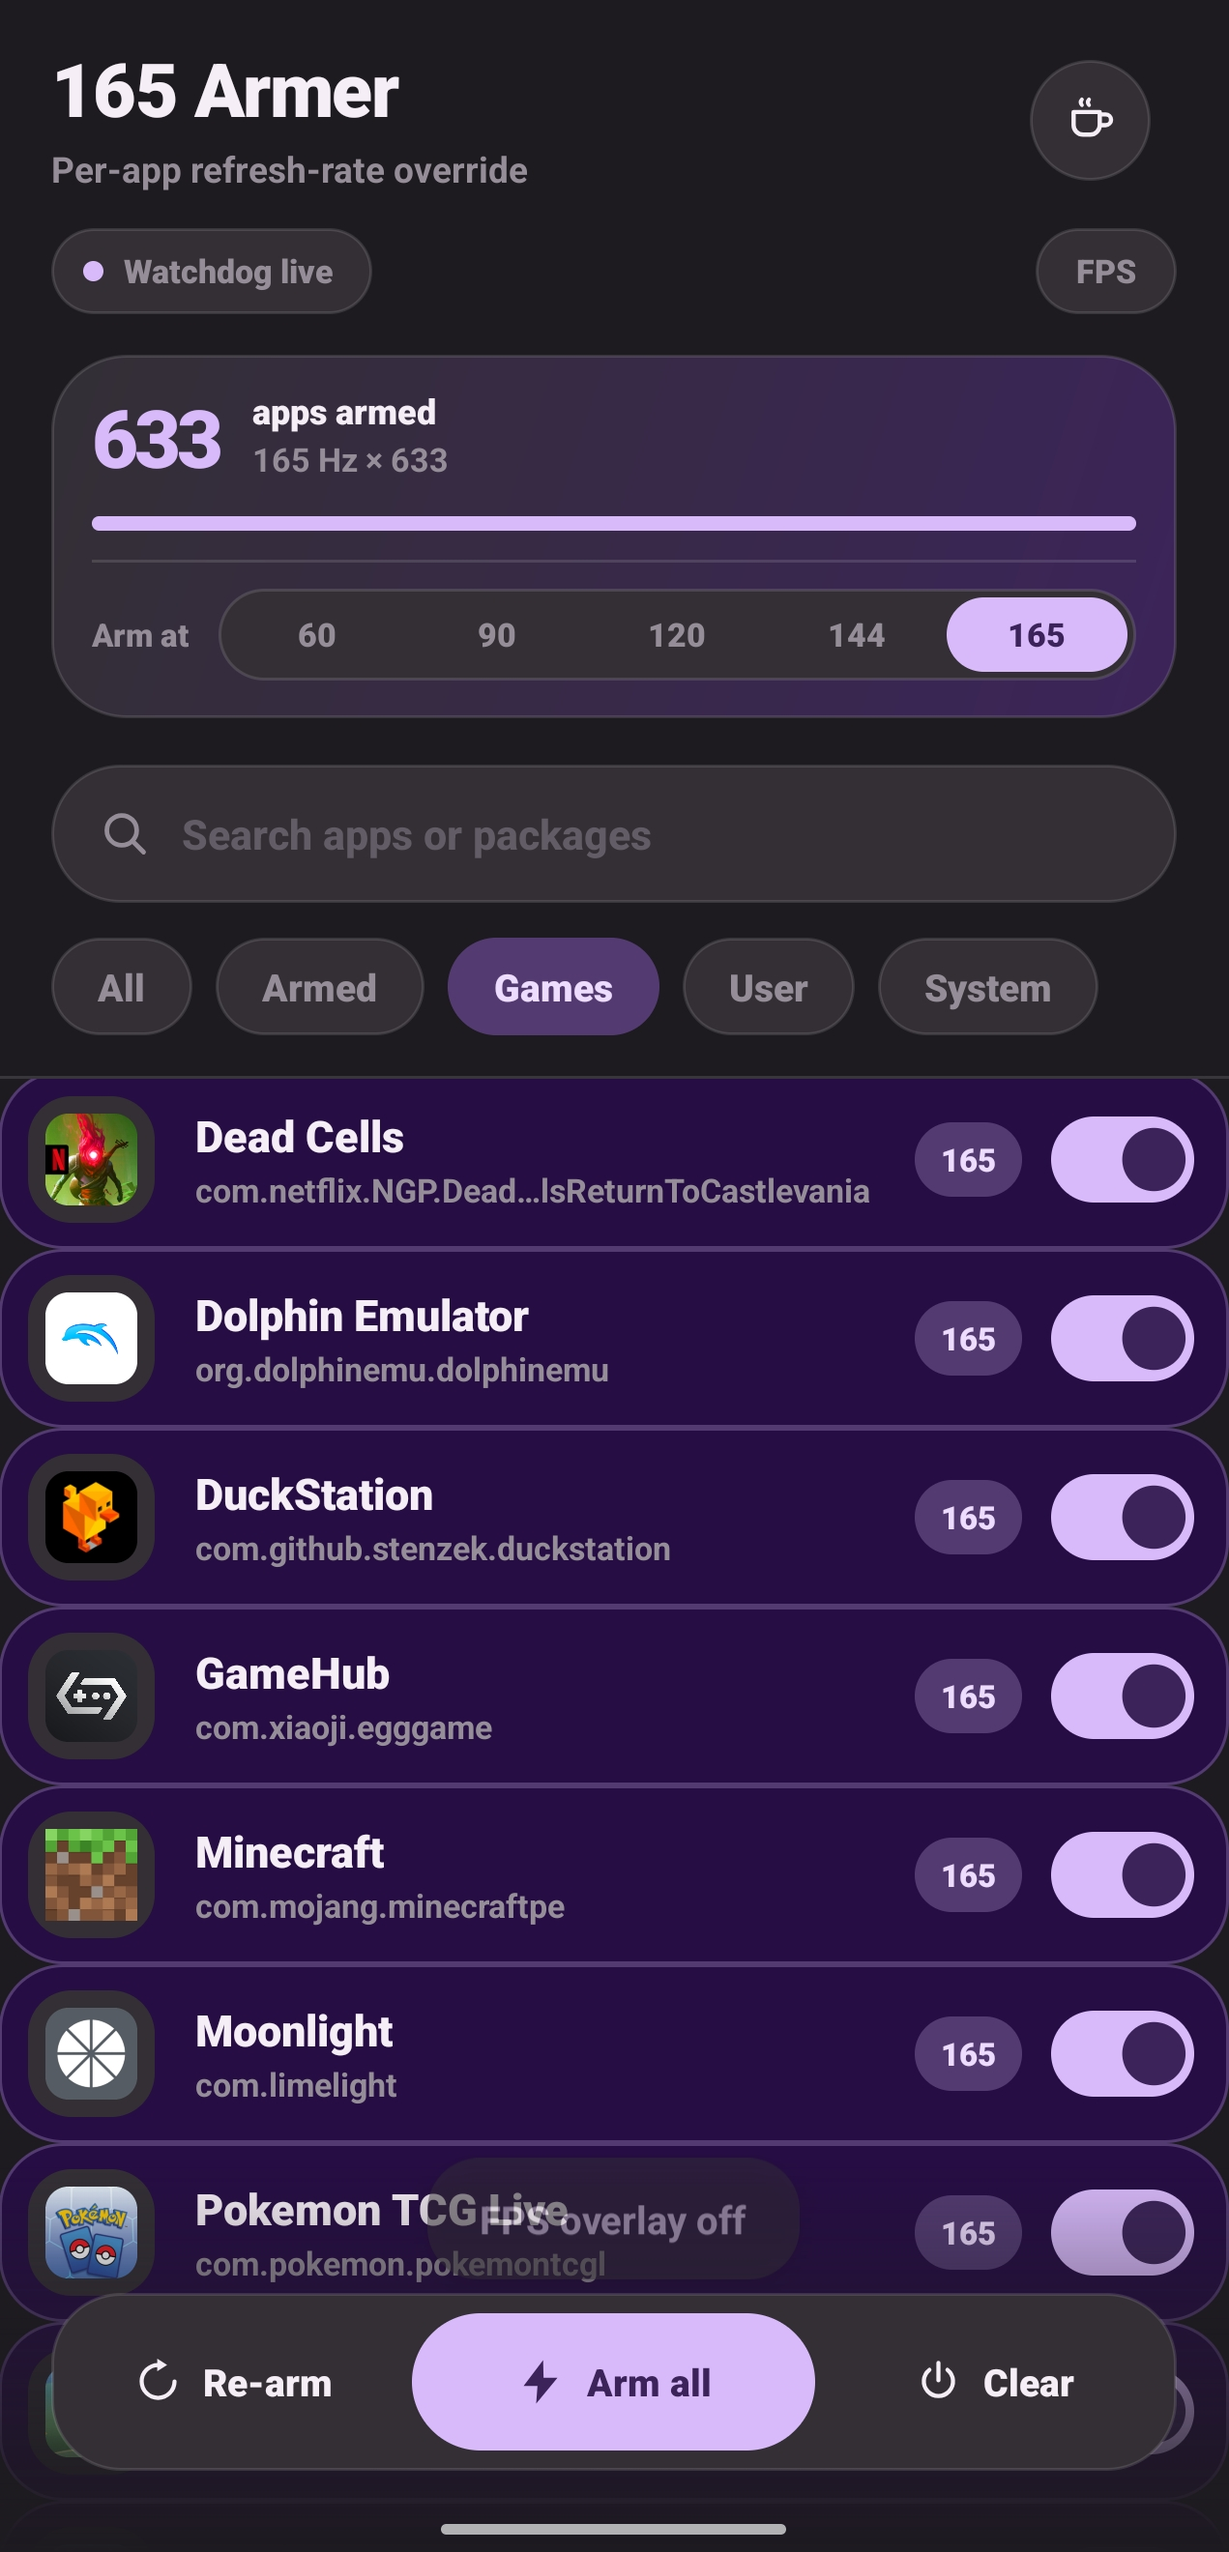
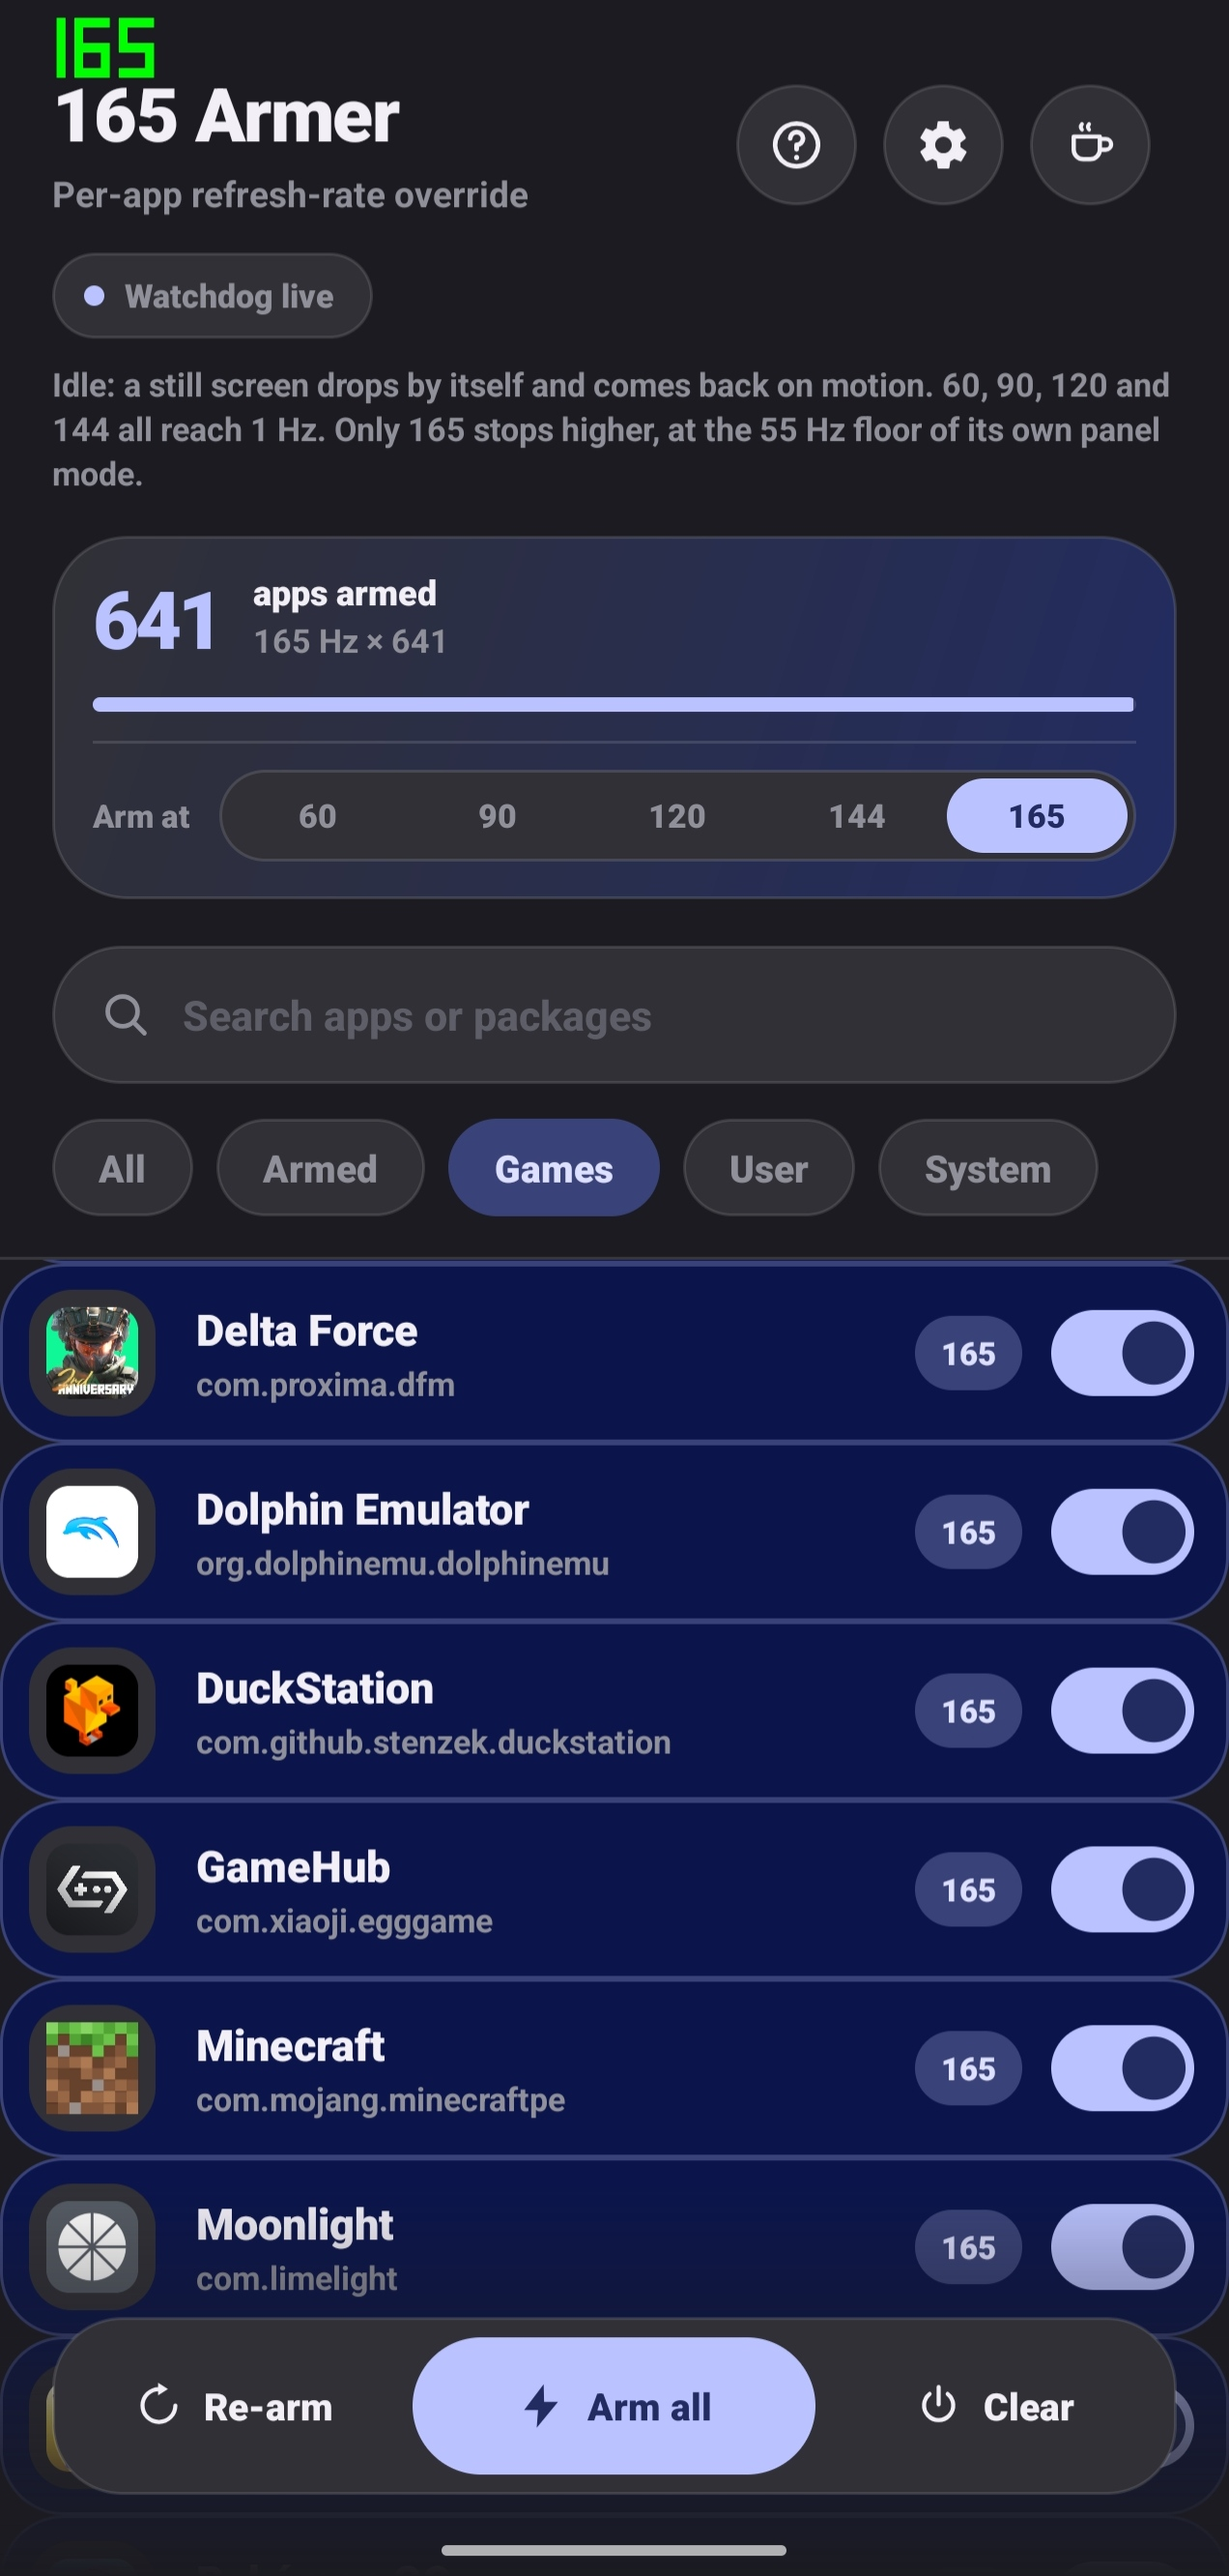
A current screenshot, and the widget under it
The shot in the README was two releases old: it still carried the FPS chip
1.0.7 dropped along with the overlay permission, had no settings or help
button in the header, and caught an "FPS overlay off" toast mid-fade across
the list. Replaced with 1.0.8 as it ships — the idle note under the status
pill, the three header buttons, the blue pull Material You gives it here.

widget.png goes under it. Both shots are 1272 px wide off the same panel,
so rendering both at one display width puts the widget at the size it
actually occupies on the home screen, which is the point of it.

diff --git a/README.md b/README.md
@@ -12,7 +12,9 @@ OnePlus 15 (CPH2747/CPH2749, OxygenOS 16). No root, no Magisk, no bootloader
 unlock.
 
 <p align="center">
-  <img src="screenshot.png" width="320" alt="165 Armer screenshot">
+  <img src="screenshot.png" width="320" alt="165 Armer app screenshot">
+  <br>
+  <img src="widget.png" width="320" alt="165 Armer home-screen widget">
 </p>
 
 ## Features
